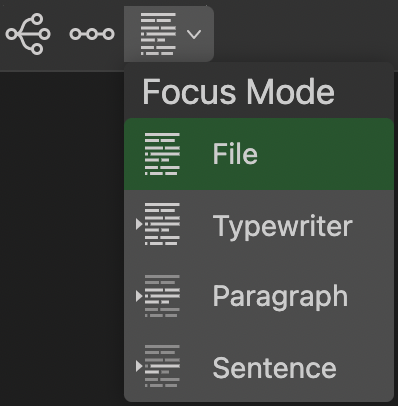
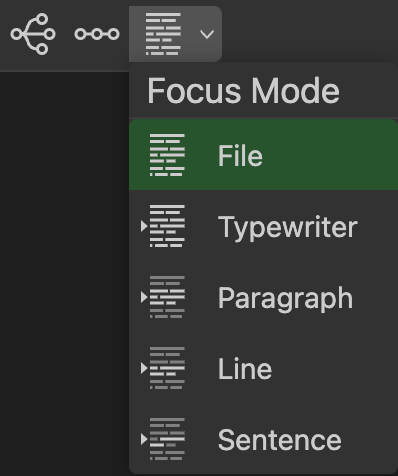
Updates focus mode documentation.

diff --git a/Documentation/Views/Focus Modes.md b/Documentation/Views/Focus Modes.md
@@ -4,8 +4,9 @@ When you want to isolate a single note from the [[Thread View]], you can invoke 
 
 1. **File focus** will present the current note as if it were the only note in the Thread.
 2. **Typewriter focus** will additionally ensure that your typing cursor remains in the center of the screen as you type and move around.
-3. **Paragraph focus** will additionally fade out all text except for your current paragraph.
-4. **Sentence focus** fades out all text except for your current sentence.
+3. **Paragraph focus** will additionally fade out all text except for your current line and all adjacent lines with content.
+4. **Line focus** will fade out all text except for your current line.
+5. **Sentence focus** fades out all text except for your current sentence.
 
 In all of these modes, the top bar and [[The Sidebar]] are automatically hidden by default. If you summon the sidebar while in a focus mode, the top bar will return as well.
 
